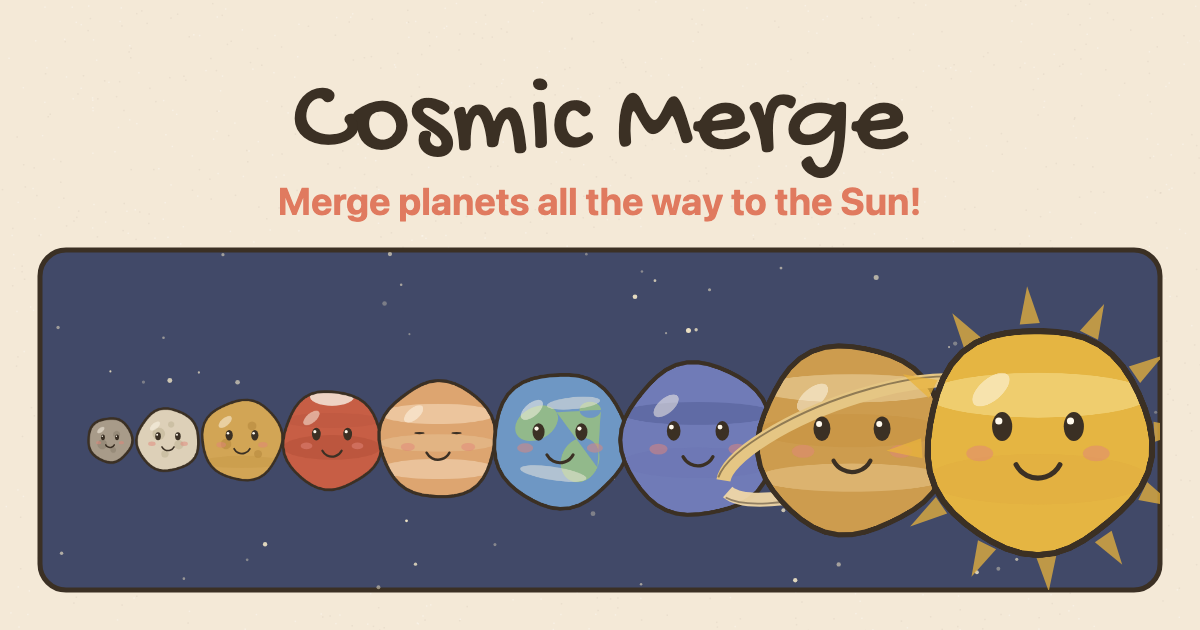
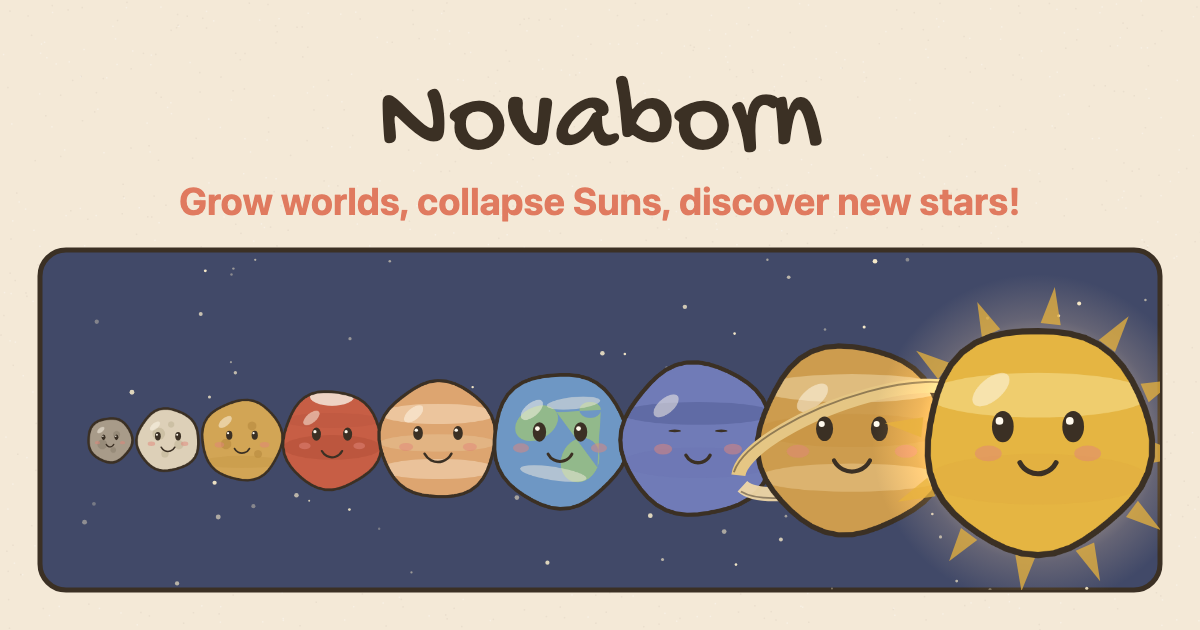
docs(web): update privacy policy + OG image for Novaborn + no-tracking
- public/privacy.html: rename to Novaborn; rewrite the Advertising section to
  state non-personalized ads only / NO tracking / no IDFA / no ATT (the previous
  text described an ATT prompt, which now contradicts the app's behavior and the
  App Review reply). Apple may open the privacy URL, so it must match.
- scripts/og-image.mjs + public/og-image.png: regenerate with the Novaborn title
  and "Grow worlds, collapse Suns, discover new stars!" tagline.

diff --git a/public/privacy.html b/public/privacy.html
@@ -3,7 +3,7 @@
   <head>
     <meta charset="UTF-8" />
     <meta name="viewport" content="width=device-width, initial-scale=1.0" />
-    <title>Cosmic Merge — Privacy Policy</title>
+    <title>Novaborn — Privacy Policy</title>
     <style>
       :root { color-scheme: light; }
       body {
@@ -27,11 +27,11 @@
   </head>
   <body>
     <main>
-      <h1>Privacy Policy — Cosmic Merge</h1>
-      <p class="sub">Last updated: 9 August 2026</p>
+      <h1>Privacy Policy — Novaborn</h1>
+      <p class="sub">Last updated: 22 August 2026</p>
 
       <p>
-        Cosmic Merge ("the game", "we") is a casual planet-merging game. We keep data collection to
+        Novaborn ("the game", "we") is a casual cosmic puzzle game. We keep data collection to
         the minimum needed to run the game and an optional global leaderboard. This page explains
         what is collected, why, and your choices.
       </p>
@@ -72,11 +72,11 @@
         <a href="https://admob.google.com" rel="noopener">Google AdMob</a>.
       </p>
       <p>
-        To deliver ads, Google may collect and process device and usage information, including
-        advertising identifiers, as described in Google's policies. On iOS 14.5+ the game asks your
-        permission (Apple's App Tracking Transparency prompt) before any cross-app tracking; if you
-        decline, ads still work but are non-personalized. You can change this at any time in
-        <em>Settings → Privacy &amp; Security → Tracking</em>.
+        To deliver ads, Google may process device and usage information as described in Google's
+        policies. This app requests <strong>non-personalized ads only</strong> and <strong>does not
+        track you</strong>: it does not use the device Advertising Identifier (IDFA) for cross-app
+        tracking, and it does not use Apple's App Tracking Transparency framework (there is no
+        tracking to authorize).
       </p>
 
       <h2>4. Third-party services</h2>
@@ -100,8 +100,8 @@
       <p>
         The game is suitable for all ages and does not knowingly collect personal information from
         children. The only data you provide directly is a self-chosen display name and country, which
-        you control and can leave blank. Ads (section 3) are served by Google AdMob and may involve
-        advertising identifiers as described in Google's policies.
+        you control and can leave blank. Ads (section 3) are served by Google AdMob as
+        non-personalized ads and do not use tracking identifiers.
       </p>
 
       <h2>6. Data retention &amp; deletion</h2>
